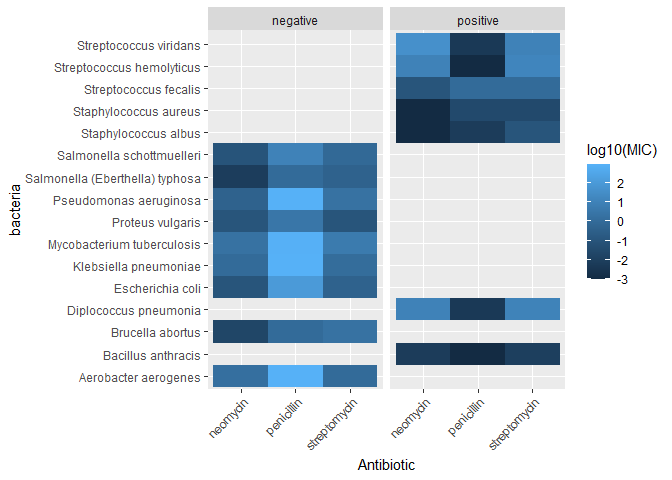
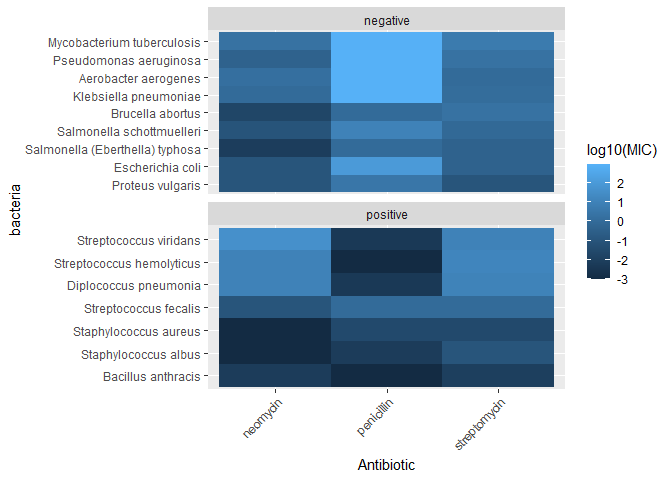
c05 revised

diff --git a/challenges/c05-antibiotics-assignment.md b/challenges/c05-antibiotics-assignment.md
@@ -185,10 +185,11 @@ df_anti_pivot
 
 ``` r
 df_anti_pivot %>%
+  mutate(bacteria = fct_reorder(bacteria, MIC)) %>%
   ggplot(aes(Antibiotic, bacteria, fill = log10(MIC))) +
-    geom_tile() +
-    facet_grid(~ gram) +
-    theme(axis.text.x = element_text(angle = 45, hjust = 1))
+  geom_tile() +
+  facet_wrap(~ gram, nrow = 2, scales = "free_y") +
+  theme(axis.text.x = element_text(angle = 45, hjust = 1))
 ```
 
 ![](c05-antibiotics-assignment_files/figure-gfm/q1.1-1.png)<!-- -->
@@ -207,12 +208,15 @@ your other visuals.
 # WRITE YOUR CODE HERE
 
 df_anti_pivot %>%
-  ggplot(aes(MIC, bacteria)) +
-    geom_vline(xintercept = 0.1, linetype = "dashed") +
-    geom_point(aes(color = gram)) +
-    scale_x_log10() +
-    facet_wrap(~ Antibiotic) +
-    theme(axis.text.x = element_text(angle = 45, hjust = 1))
+  mutate(bacteria = fct_reorder(bacteria, MIC)) %>%
+  ggplot(aes(x = MIC, y = bacteria)) +
+  geom_vline(xintercept = 0.1, linetype = "dashed") +
+  geom_point(
+    aes(color = Antibiotic), 
+    position = position_jitter(0, 0.2)) +
+  scale_x_log10() +
+  facet_wrap(~ gram, nrow = 2, scales = "free_y") +
+  theme(axis.text.x = element_text(angle = 45, hjust = 1))
 ```
 
 ![](c05-antibiotics-assignment_files/figure-gfm/q1.2-1.png)<!-- -->
@@ -230,6 +234,7 @@ your other visuals.
 # WRITE YOUR CODE HERE
 df_anti_pivot %>%
   filter(Antibiotic == "neomycin") %>%
+  mutate(bacteria = fct_reorder(bacteria, MIC)) %>%
   ggplot(aes(MIC, bacteria, fill = gram)) +
   geom_col() +
   scale_x_log10()
@@ -256,9 +261,14 @@ df_anti_pivot %>%
     max_MIC = max(MIC), 
     .groups = "drop"
   ) %>%
-  ggplot(aes(y = reorder(bacteria, min_MIC),color = gram)) +
-    geom_errorbar(aes(xmin = min_MIC, xmax = max_MIC)) +
-    scale_x_log10() 
+  ggplot(aes(y = reorder(bacteria, min_MIC), color = gram)) +
+  geom_vline(xintercept = 0.1, linetype = "dashed") +
+  geom_errorbar(aes(xmin = min_MIC, xmax = max_MIC)) +
+  scale_x_log10() +
+  labs(
+    x = "MIC",
+    y = "Bacteria",
+  )
 ```
 
 ![](c05-antibiotics-assignment_files/figure-gfm/q1.4-1.png)<!-- -->
@@ -336,7 +346,7 @@ opportunity to think about why this is.**
 
 *Observations* - What is your response to the question above? - It seems
 like neomycin is effective for the most bacteria (9) and streptomycin
-for the least (5). Penicillin is in the middle with 6, which are notably
+for the least (4). Penicillin is in the middle with 5, which are notably
 all positive. For streptococcus, it seems like penicillin is the most
 effective, with neomycin coming in close second. For salmonella,
 neomycin is the only effective antibiotic from the three in the dataset.
@@ -345,12 +355,15 @@ none are effective. For proteus, neomycin and streptomycin barely make
 the cut and penicillin doesn’t. For mycobacterium and klebsiella, none
 make the cut. For diplococcus only penicillin is effective. For
 brucella, only neomycin is effective. For bacillus, all three are
-effective. And for aerobacter, none are effective. - Which of your
-visuals above (1 through 5) is **most effective** at helping to answer
-this question? - 2 - Why? - In visual 2, I had all the bacterias laid
-out with MIC categorized by drug in facets. I added an efficacy cutoff
-based on the 0.1 max value provided above. All this made it easy to look
-through and determine which drugs made the cutoff for each bacteria.
+effective. And for aerobacter, none are effective.
+
+\- Which of your visuals above (1 through 5) is **most effective** at
+helping to answer this question? - 2
+
+\- Why? - In visual 2, I had all the bacterias laid out with MIC
+categorized by drug in facets. I added an efficacy cutoff based on the
+0.1 max value provided above. All this made it easy to look through and
+determine which drugs made the cutoff for each bacteria.
 
 #### Guiding Question 2
 
@@ -361,17 +374,24 @@ and in 1984 *Streptococcus fecalis* was renamed *Enterococcus fecalis*
 > Why was *Diplococcus pneumoniae* was renamed *Streptococcus
 > pneumoniae*?
 
-*Observations* - What is your response to the question above? - The
-dataset alone is not enough to conclude the answer with enough
-certainty. However, it appears that Diplococcus pneumoniae often has a
-similar drug response to Streptococcus hemolyticus and Streptococcus
-viridians. The reason this doesn’t provide a certain answer is because a
-lot more goes into genus than just drug response. - Which of your
-visuals above (1 through 5) is **most effective** at helping to answer
-this question? - 5 - Why? - It shows similar relationships between the
-responses of the different bacteria. (I’m treating all three plots as
-one because I initially intended to use patchwork but it compressed the
-plots too much).
+*Observations* - What is your response to the question above? - On its
+own, the dataset is not enough to exactly know why Diplococcus
+pneumoniae was renamed Streptococcus pneumoniae. However, Diplococcus
+pneumoniae looks like it has similar MIC values to Streptococcus
+hemolyticus and Streptococcus viridans across the tested antibiotics.
+MIC is related to susceptibility to an antibiotic, which can be impacted
+by things like cell wall structure and other cell properties. This means
+that similar MIC patterns could point to similarities in some of these
+properties, giving a reason to look into whether these bacteria belong
+to the same genus. But MIC values alone cannot prove their relationship
+or explain the exact reason for the renaming.
+
+Which of your visuals above (1 through 5) is **most effective** at
+helping to answer this question? - 5
+
+Why? - It allows for direct comparison of the MIC values between pairs
+of antibiotics, making it easier to identify similarities in drug
+responses between different bacteria.
 
 # References
 
